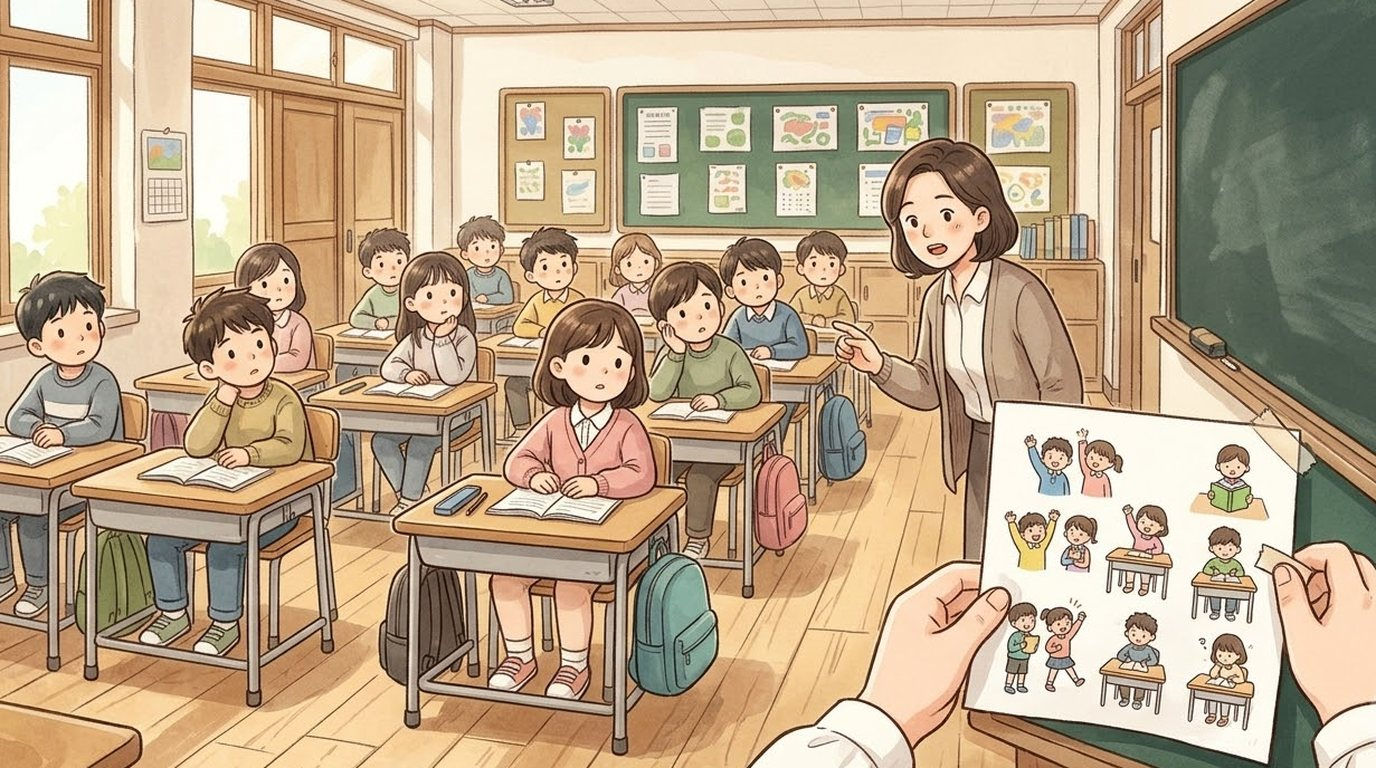
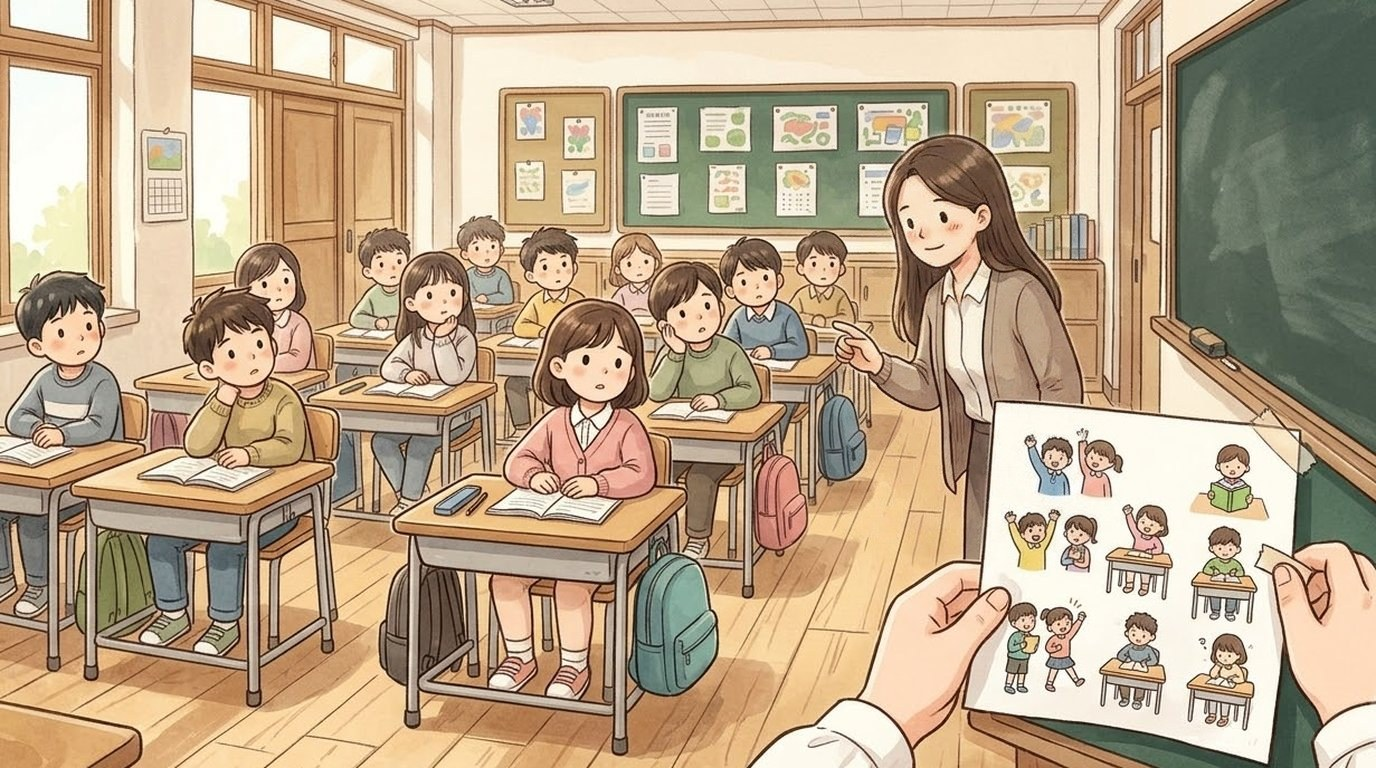
Sua check fixes (days 8-15 AI review): meeting 12 D the notebook picture shows when my speech text is read (not the day-1 jar), meeting 13 A no smiling high-five picture when I cannot meet her palm, sua_10e next-class teacher now the same young long-haired teacher as 10c/10d

Changed region(s): [[0.5938, 0.1562, 0.7812, 0.5], [0.75, 0.5625, 0.8125, 0.625], [0.7188, 0.6562, 0.8125, 0.7188]]

diff --git a/index.html b/index.html
@@ -119,14 +119,14 @@ body,button{word-break:keep-all;overflow-wrap:break-word}
 <div id="fader"></div>
 <script>
 // same address, newest version: if the page this phone has kept is older than the one online, fetch the new one and reopen
-const BUILD='1107105730';
+const BUILD='1107105903';
 try{fetch(location.pathname,{cache:'no-store'}).then(r=>r.text()).then(t=>{const m=t.match(/const BUILD='(\d+)'/);if(m&&m[1]!==BUILD&&sessionStorage.getItem('upd')!==m[1]){sessionStorage.setItem('upd',m[1]);fetch(location.pathname,{cache:'reload'}).then(()=>location.reload())}}).catch(()=>{})}catch(e){}
 </script>
-<script src="i18n.js?v=1107105730"></script>
-<script src="i18n_prologue_v2.js?v=1107105730"></script>
-<script src="day2/i18n_engine.js?v=1107105730"></script>
-<script src="day2/data.js?v=1107105730"></script>
-<script src="day3/data.js?v=1107105730"></script>
+<script src="i18n.js?v=1107105903"></script>
+<script src="i18n_prologue_v2.js?v=1107105903"></script>
+<script src="day2/i18n_engine.js?v=1107105903"></script>
+<script src="day2/data.js?v=1107105903"></script>
+<script src="day3/data.js?v=1107105903"></script>
 <script>
 // ---------- data ----------
 const MW=1672,MH=941,KID=180;
@@ -549,34 +549,34 @@ function pickHero(){const m=document.getElementById('modal'),c=document.getEleme
  c.innerHTML=`<h2>${tr('전학생 반장되기')}</h2><p>${tr('한국말이 아직 서툰 전학생,<br>반장 선거에 나가다.')}</p><p style="margin-top:14px">${tr('누구로 할까요?')}</p>${(()=>{const s=loadSave();return s&&s.day>=2&&s.mode===UI+'-'+LANG?`<p><button class="big" id="cont">${tr('{n}일차부터 이어 하기').replace('{n}',s.day)}</button></p>`:''})()}<div class="pick heroes"><button data-h="hero_f"><img src="faces/hero_f_smile.jpg" alt="여자 주인공">${heroName(1)}</button><button data-h="hero_m"><img src="faces/hero_m_smile.jpg" alt="남자 주인공">${heroName(0)}</button></div>`;
  m.classList.add('on');{const cb=document.getElementById('cont');if(cb)cb.onclick=()=>{const s=loadSave();HERO=s.hero;Object.assign(HEART,s.heart||{});(s.found||[]).forEach(k=>FOUND.add(k));HEART_D1={...HEART};chime();(typeof contGame==='function'?contGame(s):startDay(Math.min(s.day,Object.keys(window.D3||{}).length?3:2)))}}c.querySelectorAll('.pick button').forEach(b=>b.onclick=()=>{HERO=b.dataset.h;m.classList.remove('on');chime();bgm('day');load('home_am');say([['nar','','이사 온 다음 날 아침. 아직 풀지 못한 상자들이 쌓여 있다.'],['think','sad','(오늘부터 새 학교야. 여기 말도 아직 서툰데…….)'],['think','smile','({m}한테 인사하고 학교 가야지.)']],morning)})}
 </script>
-<script src="day2/engine.js?v=1107105730"></script>
-<script src="day2/ep_minho.js?v=1107105730"></script>
-<script src="day2/meet.js?v=1107105730"></script>
-<script src="day2/ep_sua.js?v=1107105730"></script>
-<script src="day2/ep_hangyeol.js?v=1107105730"></script>
-<script src="day2/ep_siwoo.js?v=1107105730"></script>
-<script src="day2/ep_haram.js?v=1107105730"></script>
-<script src="day2/ep_jiho.js?v=1107105730"></script>
-<script src="day2/ep_hyeeun.js?v=1107105730"></script>
-<script src="day2/ep_haneul.js?v=1107105730"></script>
-<script src="day2/ep_junho.js?v=1107105730"></script>
-<script src="day2/ep_yuna.js?v=1107105730"></script>
-<script src="day2/ep_yena.js?v=1107105730"></script>
-<script src="day2/ep_haeun.js?v=1107105730"></script>
-<script src="day2/ep_youngmin.js?v=1107105730"></script>
-<script src="day2/ep_seah.js?v=1107105730"></script>
-<script src="day2/ep_jihoon.js?v=1107105730"></script>
-<script src="words_ja_ru.js?v=1107105730"></script>
-<script src="day2/mybag.js?v=1107105730"></script>
-<script src="day2/wordpics.js?v=1107105730"></script>
-<script src="day2/spots.js?v=1107105730"></script>
-<script src="day2/textfit.js?v=1107105730"></script>
-<script src="day2/tester.js?v=1107105730"></script>
-<script src="day2/ux.js?v=1107105730"></script>
-<script src="day2/tapword.js?v=1107105730"></script>
-<script src="day2/review.js?v=1107105730"></script>
-<script src="day2/ep_ending.js?v=1107105730"></script>
-<script src="day2/ending.js?v=1107105730"></script>
+<script src="day2/engine.js?v=1107105903"></script>
+<script src="day2/ep_minho.js?v=1107105903"></script>
+<script src="day2/meet.js?v=1107105903"></script>
+<script src="day2/ep_sua.js?v=1107105903"></script>
+<script src="day2/ep_hangyeol.js?v=1107105903"></script>
+<script src="day2/ep_siwoo.js?v=1107105903"></script>
+<script src="day2/ep_haram.js?v=1107105903"></script>
+<script src="day2/ep_jiho.js?v=1107105903"></script>
+<script src="day2/ep_hyeeun.js?v=1107105903"></script>
+<script src="day2/ep_haneul.js?v=1107105903"></script>
+<script src="day2/ep_junho.js?v=1107105903"></script>
+<script src="day2/ep_yuna.js?v=1107105903"></script>
+<script src="day2/ep_yena.js?v=1107105903"></script>
+<script src="day2/ep_haeun.js?v=1107105903"></script>
+<script src="day2/ep_youngmin.js?v=1107105903"></script>
+<script src="day2/ep_seah.js?v=1107105903"></script>
+<script src="day2/ep_jihoon.js?v=1107105903"></script>
+<script src="words_ja_ru.js?v=1107105903"></script>
+<script src="day2/mybag.js?v=1107105903"></script>
+<script src="day2/wordpics.js?v=1107105903"></script>
+<script src="day2/spots.js?v=1107105903"></script>
+<script src="day2/textfit.js?v=1107105903"></script>
+<script src="day2/tester.js?v=1107105903"></script>
+<script src="day2/ux.js?v=1107105903"></script>
+<script src="day2/tapword.js?v=1107105903"></script>
+<script src="day2/review.js?v=1107105903"></script>
+<script src="day2/ep_ending.js?v=1107105903"></script>
+<script src="day2/ending.js?v=1107105903"></script>
 <script>
 // the goal shows big for a few seconds, then folds into a small pill (tap it to open it again)
 {const g=document.getElementById('goal');let t=null;const big=()=>{g.classList.remove('mini');clearTimeout(t);t=setTimeout(()=>g.classList.add('mini'),4000)};

diff --git a/day2/ep_sua.js b/day2/ep_sua.js
@@ -520,7 +520,7 @@ EP.sua=[
    ['sua','laugh','그럼 됐네. 나는 빠른 반장, 너는…….'],['me','smile','……천천히 물어보는 반장?'],{pic:'sua_12c'},['nar','','나는 {w}을 새 쪽으로 넘겼다.'],['nar','','내 {w}: 「저는 ‘괜찮아?’라고 먼저 묻는 반장이 되겠습니다.」']]},
   {k:'D',text:'지우고, 내가 겪은 일로 다시 쓴다.',pts:{sua:2},r:[
    ['me','sad','……다시 쓸게. 잠깐만.'],{pic:'jar'},['nar','','나는 처음 문장을 지웠다. 첫날이 생각났다. 깨진 관찰 통. 민호를 막은 수아. 그리고 아무도 묻지 않았던 시우.'],
-   ['nar','','내 {w}: 「저는 ‘괜찮아?’라고 먼저 묻는 반장이 되겠습니다. 저는 전학 온 첫날, 아무것도 못 알아들었습니다. 누가 먼저 물어봐 주면 좋겠다고 생각했습니다.」'],{pic:'sua_12d'},['nar','','수아가 그걸 읽었다. 한참 말이 없었다.'],['sua','sad','……이건 내가 못 쓰는 거다.']]}],
+   {pic:'sua_12d'},['nar','','내 {w}: 「저는 ‘괜찮아?’라고 먼저 묻는 반장이 되겠습니다. 저는 전학 온 첫날, 아무것도 못 알아들었습니다. 누가 먼저 물어봐 주면 좋겠다고 생각했습니다.」'],['nar','','수아가 그걸 읽었다. 한참 말이 없었다.'],['sua','sad','……이건 내가 못 쓰는 거다.']]}],
  post:[
   ['sua','smile','고친 거 선거 때 들으면 되겠네. 지금은 안 볼래.'],
   ['me','surprised','왜?'],
@@ -564,7 +564,7 @@ EP.sua=[
   {k:'D',text:'수아가 말한 대로 전부 고친다.',pts:{sua:1},r:[
    ['me','sad','알았어. 네 말대로 다 고칠게.'],['nar','','길다고 해서 전학 온 날 얘기를 빼고, 빨리 지나간다고 해서 ‘괜찮아?’까지 아예 빼 버렸다.'],['nar','','다시 했다. 1분 30초. 짧고 깔끔했다.'],['sua','surprised','……근데 이제 누구 연설인지 모르겠다.'],['think','sad','(시키는 대로 했는데.)']]}],
  post:[
-  {pic:'sua_13f'},['nar','','수아가 손바닥을 내밀었다.'],
+  {only:['A'],lines:[{pic:null}]},{only:['B','C','D'],lines:[{pic:'sua_13f'}]},['nar','','수아가 손바닥을 내밀었다.'],
   ['sua','smile','이기려고 최선을 다하자.'],
   {only:['A'],lines:[['nar','','나는 그 손바닥을 바로 마주치지 못했다. 수아가 {@hand}을 거두고 먼저 나갔다.']]},
   {only:['B','C','D'],lines:[['nar','','나도 손바닥을 마주쳤다. 짝!']]}],
